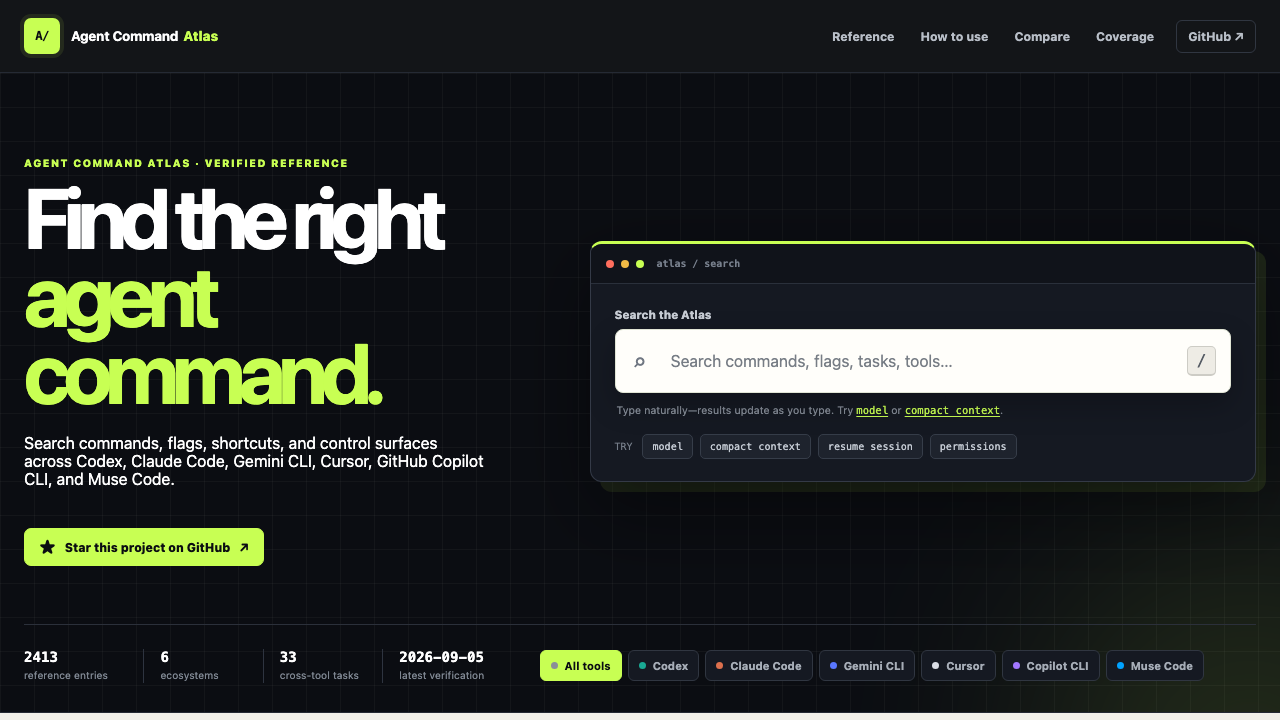
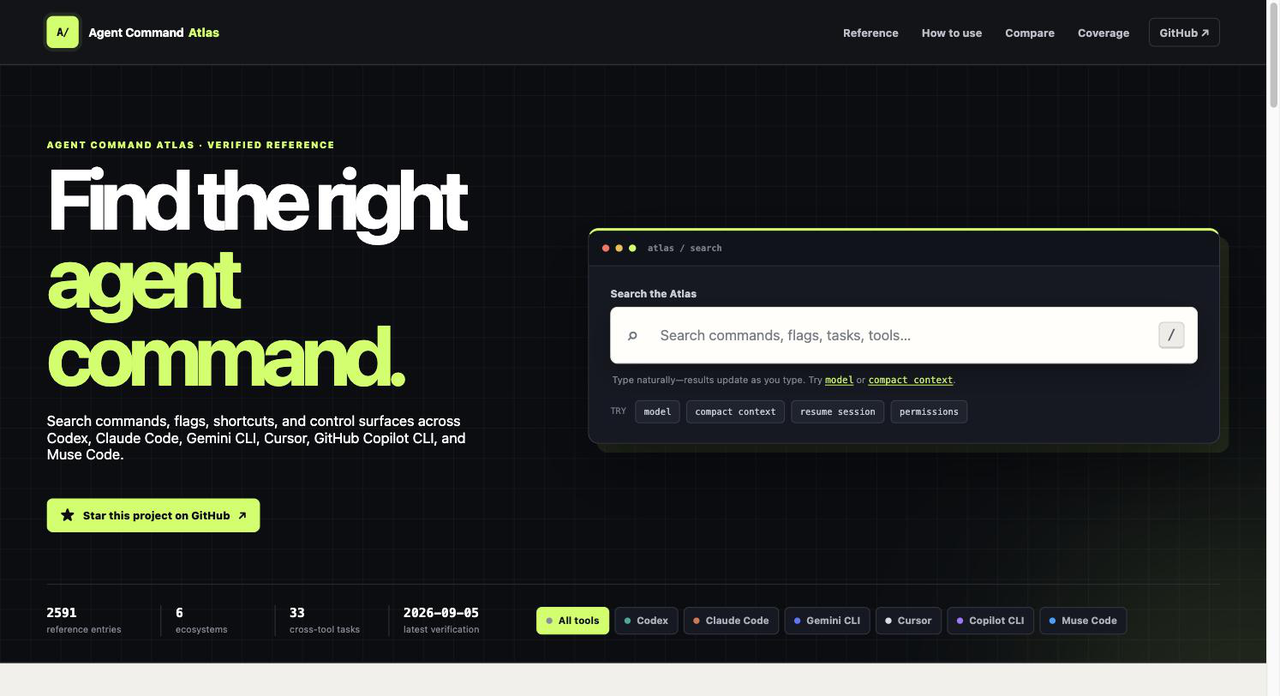
Rewrite the README as a shareable landing page
Lead with the live link, a current screenshot, and the dataset totals,
then group the trust story into one scannable section. Replace the
generic tour table with searches that show intent matching returning
different command names across tools.

Correct two stale claims: the screenshot showed 2413 entries against
the current 2591, and the relationship vocabulary was described without
noting that all 198 mappings are now resolved. State binary
verification as covering five of six ecosystems, since Muse Code ships
no inspectable binary.

Claude-Session: https://claude.ai/code/session_01FBzc2or2yiQw7S4xTgFBKY

diff --git a/README.md b/README.md
@@ -3,63 +3,52 @@
 **Stop guessing which AI coding-agent command to use.**
 
 [![Live reference](https://img.shields.io/badge/live-reference-visit_atlas-c8ff53?style=flat&labelColor=111318&color=354f00)](https://kishormorol.github.io/agent-command-atlas/)
+[![Release](https://img.shields.io/github/v/release/kishormorol/agent-command-atlas?style=flat&label=release)](https://github.com/kishormorol/agent-command-atlas/releases)
 [![GitHub stars](https://img.shields.io/github/stars/kishormorol/agent-command-atlas?style=flat&label=stars)](https://github.com/kishormorol/agent-command-atlas/stargazers)
 [![License](https://img.shields.io/github/license/kishormorol/agent-command-atlas?style=flat)](LICENSE)
 
-Agent Command Atlas is a searchable, source-linked reference for the commands and control surfaces developers use every day with AI coding agents.
-
-It covers six ecosystems in one consistent, honest interface:
-
-1. OpenAI Codex
-2. Anthropic Claude Code
-3. Google Gemini CLI
-4. Cursor
-5. GitHub Copilot CLI
-6. Meta Muse Code
-
-The project turns one canonical dataset into complementary outputs:
-
-- an open GitHub command and capability database;
-- a fast, searchable documentation website.
+One searchable, source-linked reference for the commands, flags, shortcuts, and control surfaces of six AI coding agents: **OpenAI Codex, Anthropic Claude Code, Google Gemini CLI, Cursor, GitHub Copilot CLI, and Meta Muse Code.**
 
 **[Open the live Atlas →](https://kishormorol.github.io/agent-command-atlas/)**
 
-Search `compact`, `resume old session`, `MCP`, or `model` and get useful results across tools—not just exact command-name matches. Every result links to an official source and shows syntax, examples, maturity, availability, and verification state.
-
 ![The Agent Command Atlas homepage, showing the search field, dataset totals, and the six ecosystem filters](site/screenshot.png)
 
-## Why developers use it
+| Reference entries | Ecosystems | Cross-tool tasks | Capability mappings |
+| --- | --- | --- | --- |
+| 2,591 | 6 | 33 | 198, none left unknown |
 
-- **Find commands by intent.** Search what you want to do, even when vendors use different names.
-- **Compare semantics honestly.** Relationships are labeled exact, similar, partial, none, or unknown.
-- **Copy a real example.** Command pages include minimal and practical invocations with usage guidance.
-- **Trust the source.** Records link to official vendor documentation or source repositories.
-- **See what is changing.** Experimental, conditional, rolling-out, deprecated, and removed controls stay visible.
+## Search by intent, not by name
+
+Every vendor names the same idea differently. Search what you want to *do* and get results across all six tools.
+
+| You want to… | Try it |
+| --- | --- |
+| Compact the context window | [`compact context`](https://kishormorol.github.io/agent-command-atlas/?q=compact%20context) → `/compact`, `/compress`, `/summarize` |
+| Resume an earlier session | [`resume old session`](https://kishormorol.github.io/agent-command-atlas/?q=resume%20old%20session) |
+| Compare MCP controls side by side | [Capability atlas](https://kishormorol.github.io/agent-command-atlas/compare/) |
+| See what each ecosystem covers | [Coverage dashboard](https://kishormorol.github.io/agent-command-atlas/coverage/) |
+
+Every result links to an official source and shows syntax, examples, maturity, availability, and verification state.
+
+## Why it is trustworthy
+
+Accuracy takes priority over command count.
+
+- **Every entry cites an official source.** All 2,591 records link to vendor documentation or an official source repository, and `scripts/check_sources.py` confirms every registered URL still resolves.
+- **Verification state is recorded, not assumed.** Each entry carries how it was checked and when. 2,589 are officially documented; the two exceptions are Cursor flags the vendor reference no longer lists, kept and marked as verified against the shipping binary.
+- **Claims are checked against real binaries.** Entries were verified against Claude Code 2.1.261, Codex 0.151.0, Gemini CLI 0.58.0, GitHub Copilot CLI 1.0.83, and Cursor 2026.09.02-c22c1a3. Muse Code is documentation-backed, since it ships no inspectable binary.
+- **Cross-tool claims are semantic, not lexical.** Relationships are labeled `exact`, `similar`, `partial`, `none`, or `unknown`. All 198 mappings are currently resolved — `none` is an evidence-backed conclusion, never a gap in research.
+- **Nothing is quietly deleted.** Experimental, conditional, rolling-out, deprecated, and removed controls stay visible, including controls the docs still list that the binary no longer has.
 
 ## What the atlas covers
 
 - Slash and interactive commands
-- CLI commands and flags
+- CLI commands, nested subcommands, and flags
 - Keyboard shortcuts and prefix commands such as `@` and `!`
 - Configuration files and environment variables
 - Permissions, sandboxing, and modes
 - MCP, skills, hooks, agents, and subagents
 - Sessions, models, Git, and worktrees
-
-Accuracy takes priority over command count. Entries link to official documentation or official source repositories, record verification state and date, and preserve experimental, conditional, rolling-out, deprecated, or removed status.
-
-## A quick tour
-
-| You want to… | Start here |
-| --- | --- |
-| Find a context-compaction command | [Search compact context](https://kishormorol.github.io/agent-command-atlas/?q=compact%20context) |
-| Resume an earlier session | [Search resume session](https://kishormorol.github.io/agent-command-atlas/?q=resume%20old%20session) |
-| Compare MCP controls | [Open the capability atlas](https://kishormorol.github.io/agent-command-atlas/compare/) |
-| Browse one ecosystem | [Open coverage](https://kishormorol.github.io/agent-command-atlas/coverage/) |
-
-## Built for contributors
-
-This is a living open-source reference. If a command is missing, renamed, conditional, or inaccurately described, contribute the structured record and its authoritative source. The website, indexes, and capability views are generated from that data so corrections propagate consistently.
 
 ## Data is the source of truth
 
@@ -69,9 +58,7 @@ data/ ──▶ validated catalog ──▶ website
   └──────────────────────────▶ cross-tool capability atlas
 ```
 
-Do not manually maintain large command inventories in this README or the website. Edit the authored JSON under `data/`, then regenerate the derived files.
-
-## Repository layout
+The website, indexes, and capability views are all generated from the authored JSON under `data/`, so a correction propagates everywhere. Never hand-maintain command inventories in the README or the website — edit `data/`, then regenerate.
 
 ```text
 data/        canonical entries, taxonomies, tools, and source registry
@@ -82,9 +69,21 @@ tests/       repository integrity tests
 docs/        architecture notes and roadmap
 ```
 
-See [the data model](docs/DATA_MODEL.md) for field semantics and cross-tool relationship rules, and [the website architecture](docs/WEBSITE.md) for generated routes and search behavior.
+See [the data model](docs/DATA_MODEL.md) for field semantics and relationship rules, and [the website architecture](docs/WEBSITE.md) for routes and search behavior.
 
-## Local development
+## Contributing
+
+This is a living reference. If a command is missing, renamed, conditional, or wrong, the fix is a structured record plus its authoritative source.
+
+1. Choose the file for the relevant ecosystem under `data/<tool>/`.
+2. Verify behavior against an official source.
+3. Add or update the entry, including maturity, availability, source, and verification metadata.
+4. Add capability mappings only after comparing semantics, not names.
+5. Run validation, tests, and the catalog generator, and include the generated output in the same pull request.
+
+Read [CONTRIBUTING.md](CONTRIBUTING.md) for the full requirements.
+
+### Local development
 
 ```bash
 python -m pip install -r requirements.txt
@@ -96,21 +95,12 @@ python scripts/build_catalog.py
 python -m http.server 8000 --directory site
 ```
 
-Open `http://localhost:8000`. To check that registered official URLs still resolve, run `python scripts/check_sources.py`; this optional check requires internet access.
+Open `http://localhost:8000`. To confirm every registered source URL still resolves, run `python scripts/check_sources.py` — an optional check that needs internet access.
 
-The `Publish Atlas website` workflow validates and regenerates `site/` before deploying it to GitHub Pages. See [the website architecture](docs/WEBSITE.md#publishing) for publishing requirements.
-
-## Contributing entries
-
-1. Choose the file for the relevant ecosystem under `data/<tool>/`.
-2. Verify behavior against an official source.
-3. Add or update the structured entry, including maturity, availability, source, and verification metadata.
-4. Add capability mappings only after comparing semantics, not names.
-5. Run validation, tests, and the catalog generator.
-6. Include generated output changes in the same pull request.
-
-Read [CONTRIBUTING.md](CONTRIBUTING.md) for detailed requirements.
+The `Publish Atlas website` workflow revalidates and regenerates `site/` before deploying to GitHub Pages. See [publishing requirements](docs/WEBSITE.md#publishing).
 
 ## Project status
 
-The atlas now covers interactive commands, nested subcommands, CLI flags, configuration, environment variables, shortcuts, hooks, permissions, MCP, skills, and agent controls across all six ecosystems. It remains a living reference rather than a claim that fast-changing vendor surfaces can ever be permanently complete. See [the roadmap](docs/ROADMAP.md).
+The atlas covers interactive commands, nested subcommands, CLI flags, configuration, environment variables, shortcuts, hooks, permissions, MCP, skills, and agent controls across all six ecosystems. It stays a living reference rather than a claim that fast-moving vendor surfaces can ever be permanently complete. See [the roadmap](docs/ROADMAP.md).
+
+Released under the [MIT License](LICENSE).
